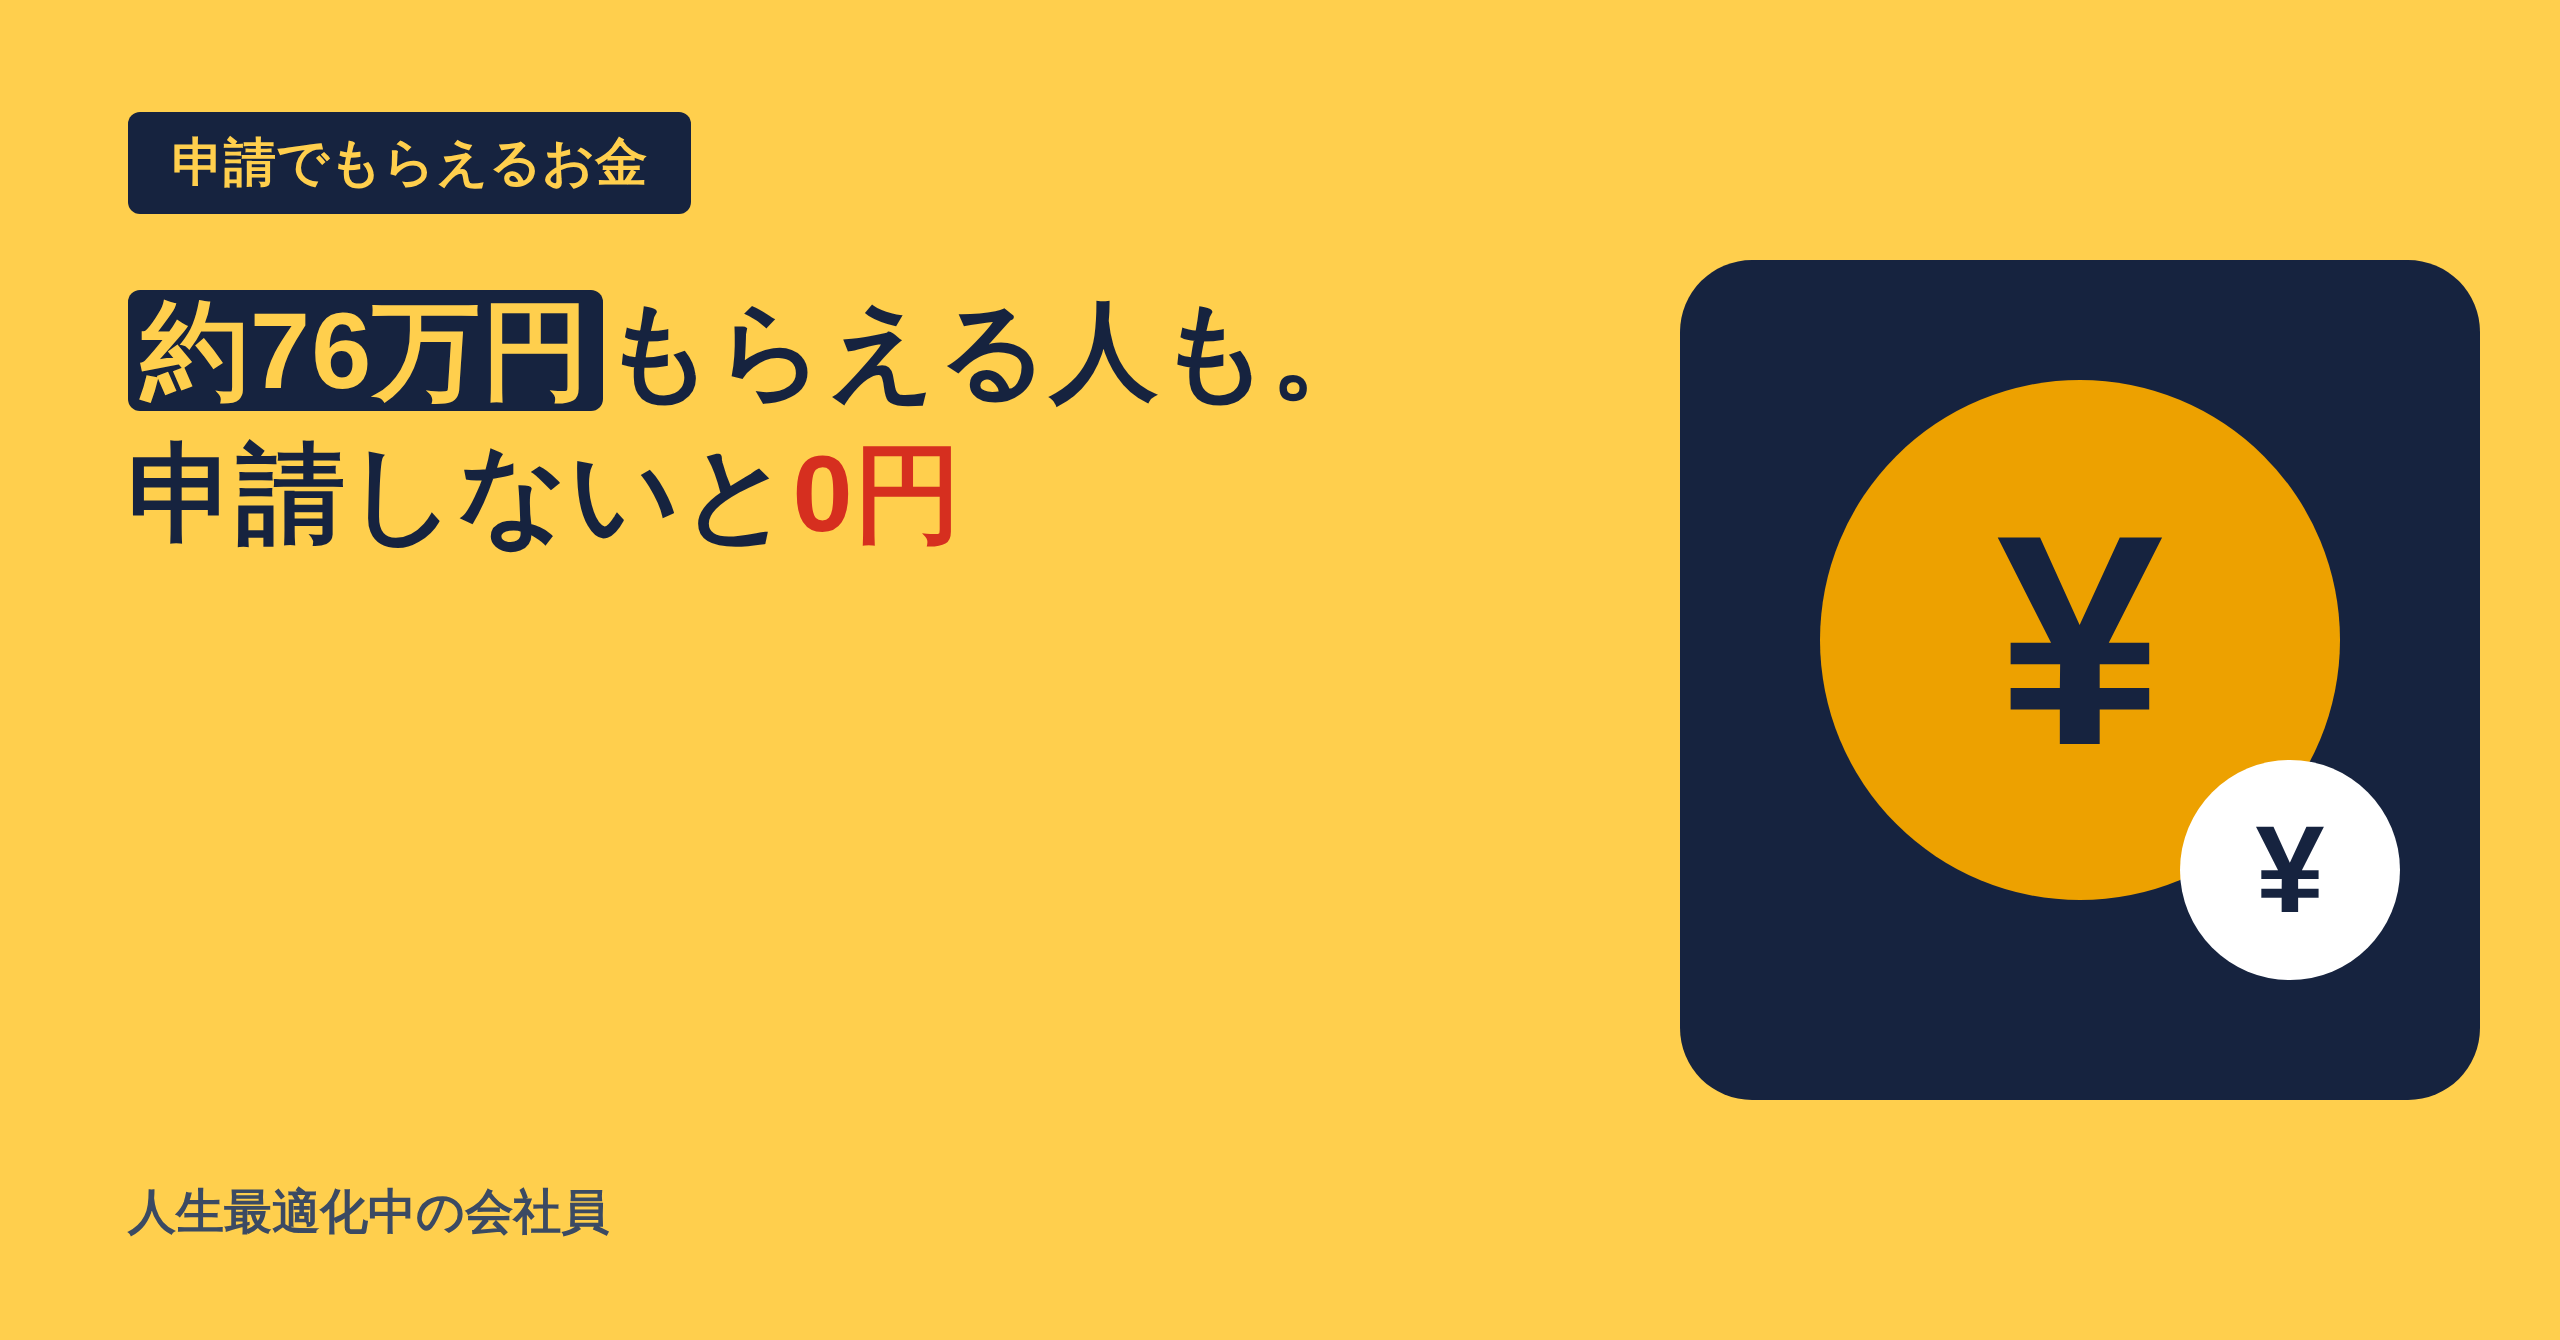
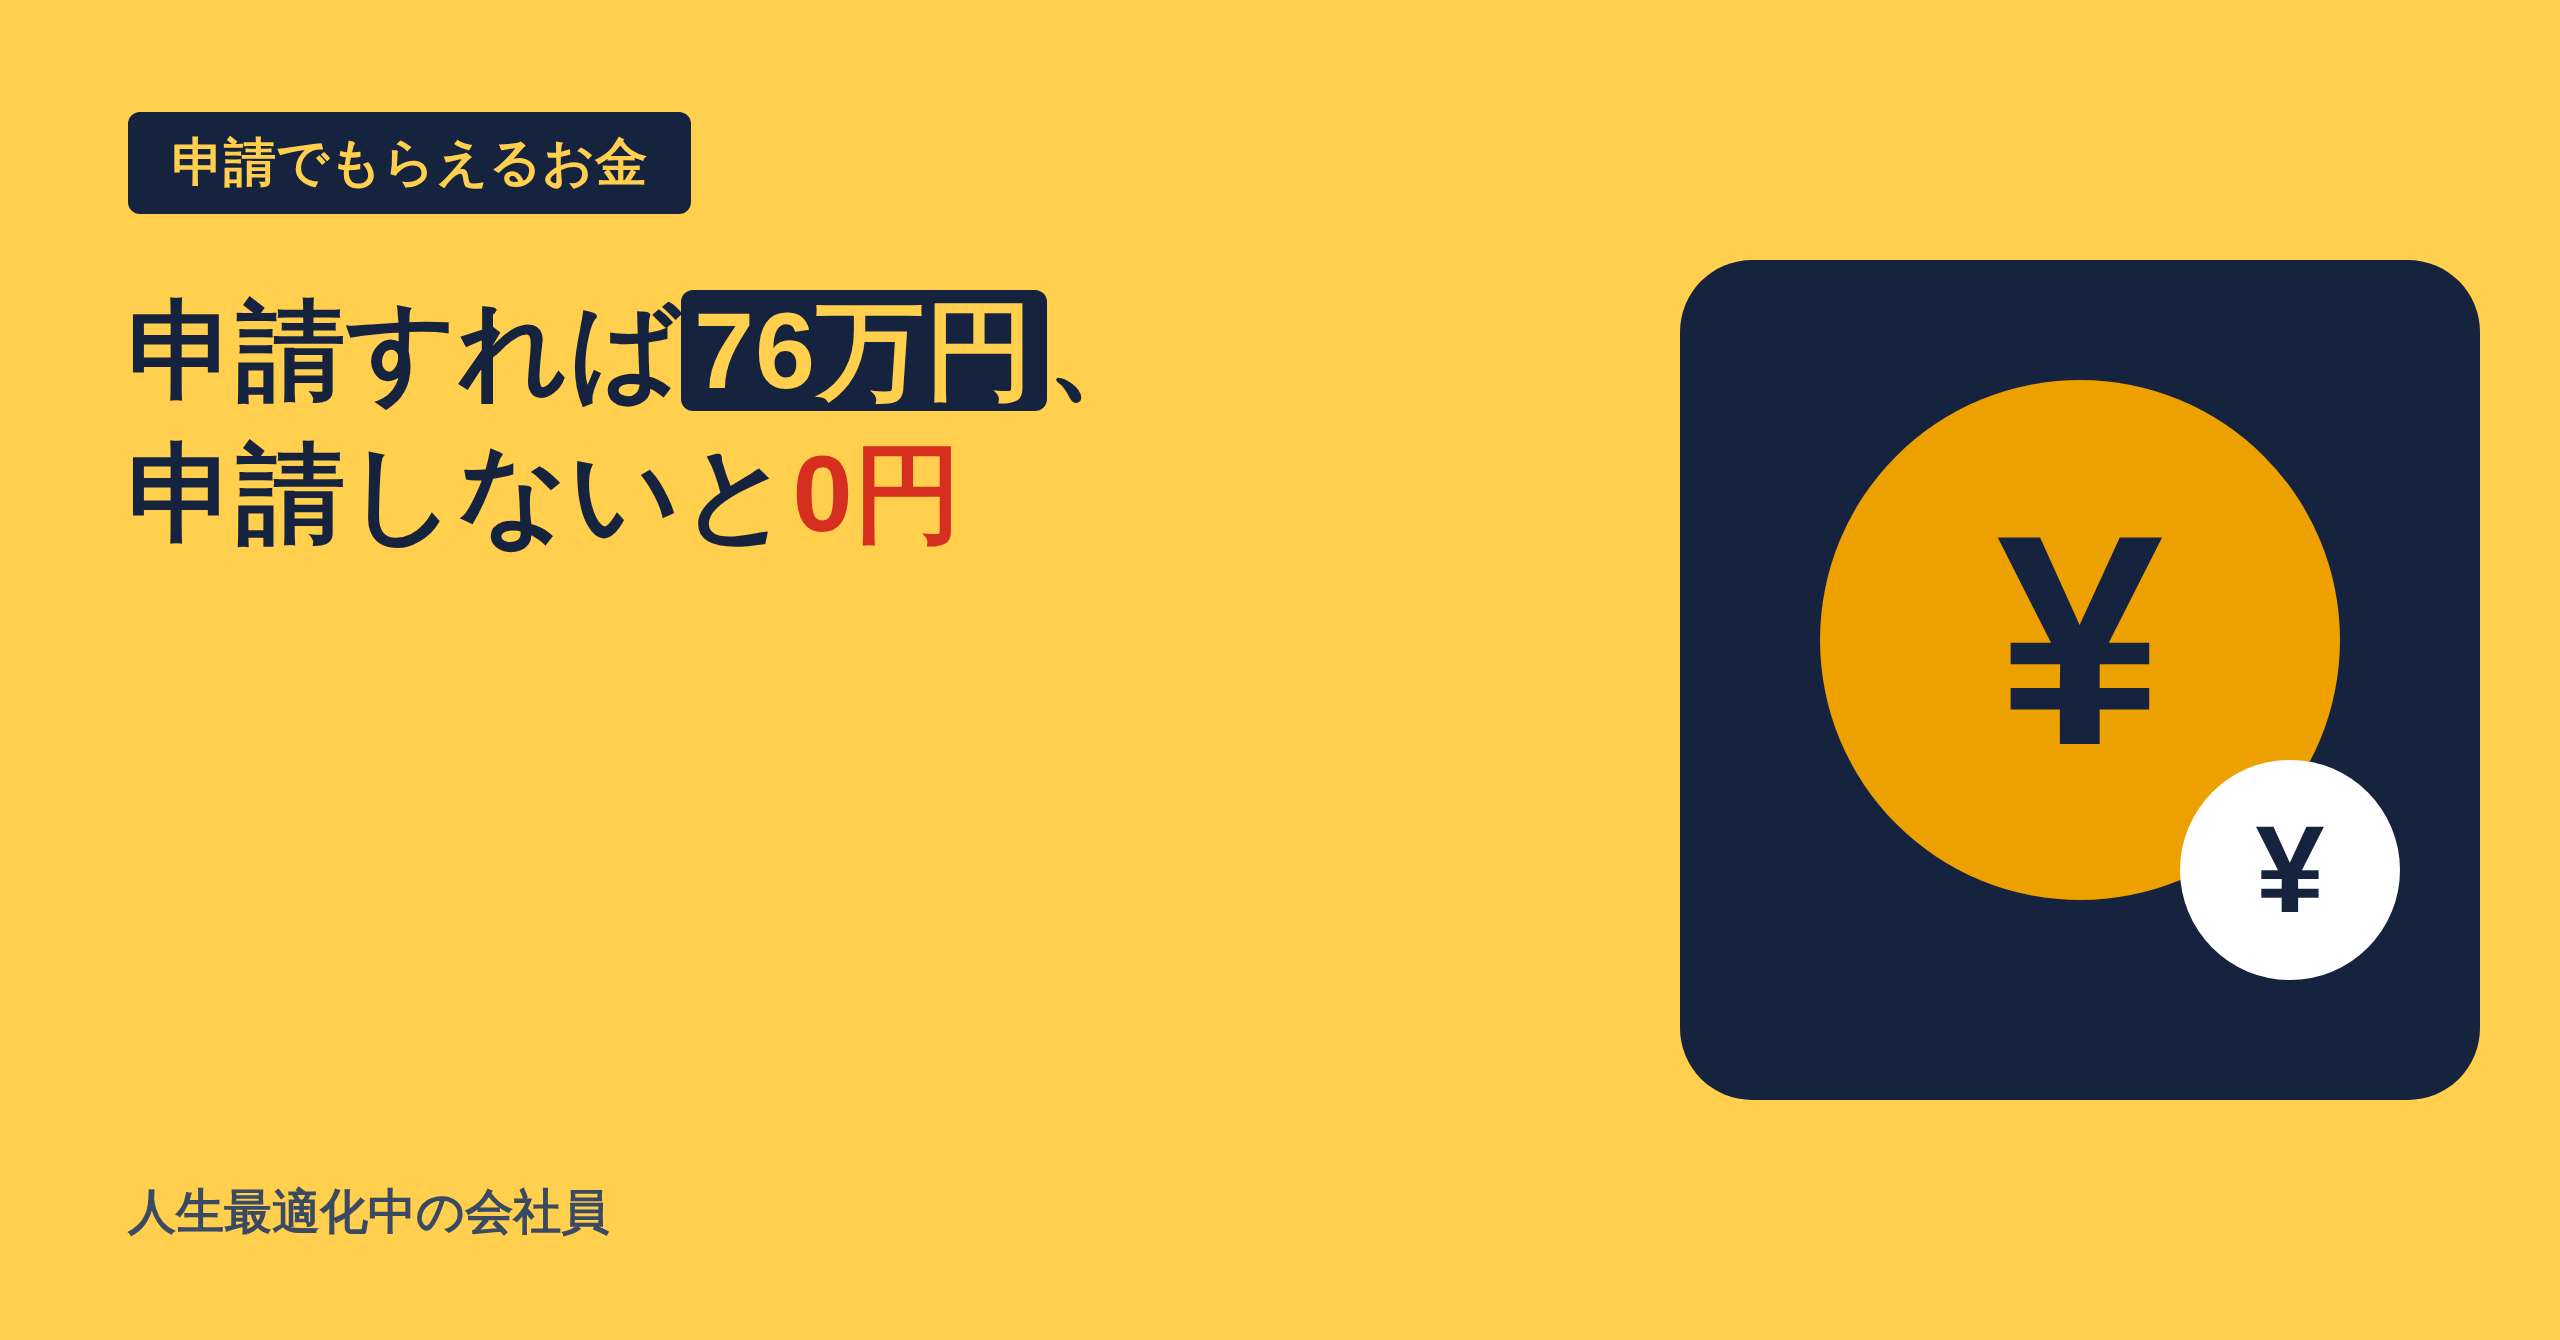
Retitle 11-08_001: 申請すれば76万円、申請しないと0円
Claude-Session: https://claude.ai/code/session_019jxzMkHZEL8EPC28xkVZW1

Changed region(s): [[0.0312, 0.2142, 0.5312, 0.306]]

diff --git a/runs/2026-11-08_001/06_sns.md b/runs/2026-11-08_001/06_sns.md
@@ -1,4 +1,4 @@
-# SNS投稿案: 約76万円もらえる人も。申請しないと0円
+# SNS投稿案: 申請すれば76万円、申請しないと0円
 
 ## X投稿案
 - 約76万円もらえる人も(仮の例)。会社都合で辞めた30歳未満・勤続5〜10年・月給30万円ほどの人の失業給付です。申請しないと0円。金額は人によって変わります。【記事URL】
@@ -34,7 +34,7 @@
 
 ## Instagram投稿案
 カルーセル案(7枚)
-1枚目: 約76万円もらえる人も。申請しないと0円(仮の例)
+1枚目: 申請すれば76万円、申請しないと0円(仮の例)
 2枚目: 領収書を財布に入れっぱなしにしていませんか。申請すれば戻る・もらえるお金があります
 3枚目: 失業給付 567,630円〜756,840円(約76万円)。月給30万円ほどの仮の例。会社都合で30歳未満・勤続5〜10年は120日分
 4枚目: 出産育児一時金 原則500,000円。児童手当は年180,000円(3歳未満)。分かれ目は「15日以内」
@@ -61,8 +61,8 @@
 #お金の話 #節約 #失業給付 #児童手当 #医療費控除
 
 ## 告知ポスト(X/Threads用。週次企画)
-- 投稿当日用: 今日のnoteを公開しました。「約76万円もらえる人も。申請しないと0円」。失業給付、出産、入院、会社を休んだとき、医療費。申請してはじめて入るお金を、仮の例の金額で並べています。金額は人や時期で変わります。【記事URL】
-- 2日後のリマインド用: 2日前に公開したnoteです。「約76万円もらえる人も。申請しないと0円」。自分の場面(辞める・入院・出産)を1つ選んで、申請先をメモするだけでも使えます。条件や金額は人によって違います。【記事URL】
+- 投稿当日用: 今日のnoteを公開しました。「申請すれば76万円、申請しないと0円」。失業給付、出産、入院、会社を休んだとき、医療費。申請してはじめて入るお金を、仮の例の金額で並べています。金額は人や時期で変わります。【記事URL】
+- 2日後のリマインド用: 2日前に公開したnoteです。「申請すれば76万円、申請しないと0円」。自分の場面(辞める・入院・出産)を1つ選んで、申請先をメモするだけでも使えます。条件や金額は人によって違います。【記事URL】
 
 ## 確認メモ
 - 使った数字は、05_revised.md にあるものだけ(756,840円、567,630円、189,210円、500,000円、207,060円、約200,000円、年180,000円、15,000円、20,000円、15日、10万円)。「(要確認)」が付いた数字は記事に残っていないので、使っていません。

diff --git a/runs/2026-11-08_001/05_revised.md b/runs/2026-11-08_001/05_revised.md
@@ -1,4 +1,4 @@
-# 約76万円もらえる人も。申請しないと0円
+# 申請すれば76万円、申請しないと0円
 
 【画像:cover.png】
 
@@ -101,7 +101,7 @@
 当てはまりそうなものが1つでもあれば、今日のうちに、申請先の連絡先をメモしてみてください。役に立ったら、スキとフォローをもらえるとうれしいです。次回も、お金の話を「いくら」で見ていきます。
 
 ## 図の指示
-- cover.png:見出し画像。題「約76万円もらえる人も。申請しないと0円」。ピクトグラムは yen(お金一般)。
+- cover.png:見出し画像。題「申請すれば76万円、申請しないと0円」。ピクトグラムは yen(お金一般)。
 - fig1:もらえる・戻るお金の早見(棒グラフ。大きい順)。失業給付は2本に分ける(自己都合・90日 567,630円/30歳未満・勤続5〜10年・会社都合・120日 756,840円)、出産育児一時金500,000円、高額療養費207,060円、傷病手当金(30日分)約200,000円、児童手当(3歳未満・年)180,000円、医療費控除(税率10%の人)20,000円。図の下の注記に「すべて仮の例。人によって違う。2026年11月時点」。
 - fig2:仮の例の計算(表)。高額療養費「85,800+(1,000,000−286,000)×1%=92,940円 → 300,000−92,940=207,060円」。失業給付「1日あたりの給料10,000円 → 日額6,307円 → ×90日=567,630円/×120日=756,840円(差189,210円)」。注記に「年収約370万〜約770万円の区分、月給30万円(ボーナス除く)、120日は30歳未満・勤続5〜10年・会社都合の仮の例」。
 

diff --git a/runs/2026-11-08_001/author_notes.md b/runs/2026-11-08_001/author_notes.md
@@ -1,0 +1,1 @@
+- 2026-11-09 持ち主の指示: 題を「申請すれば76万円、申請しないと0円」に変更(76万円は756,840円の仮の例。本文の冒頭に条件を明記済み)
